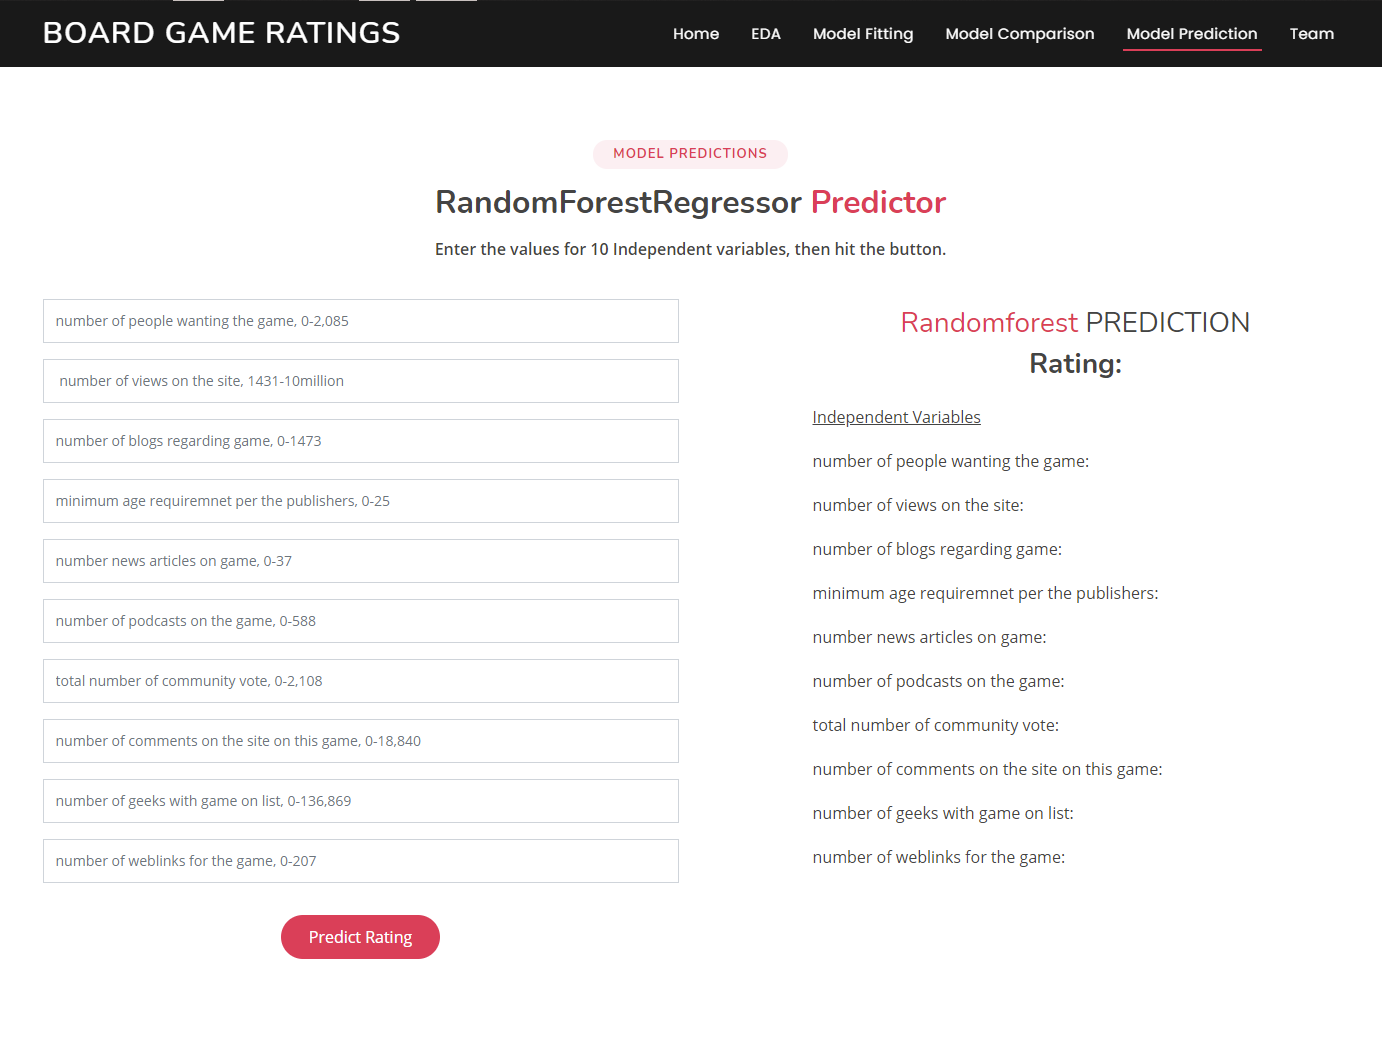
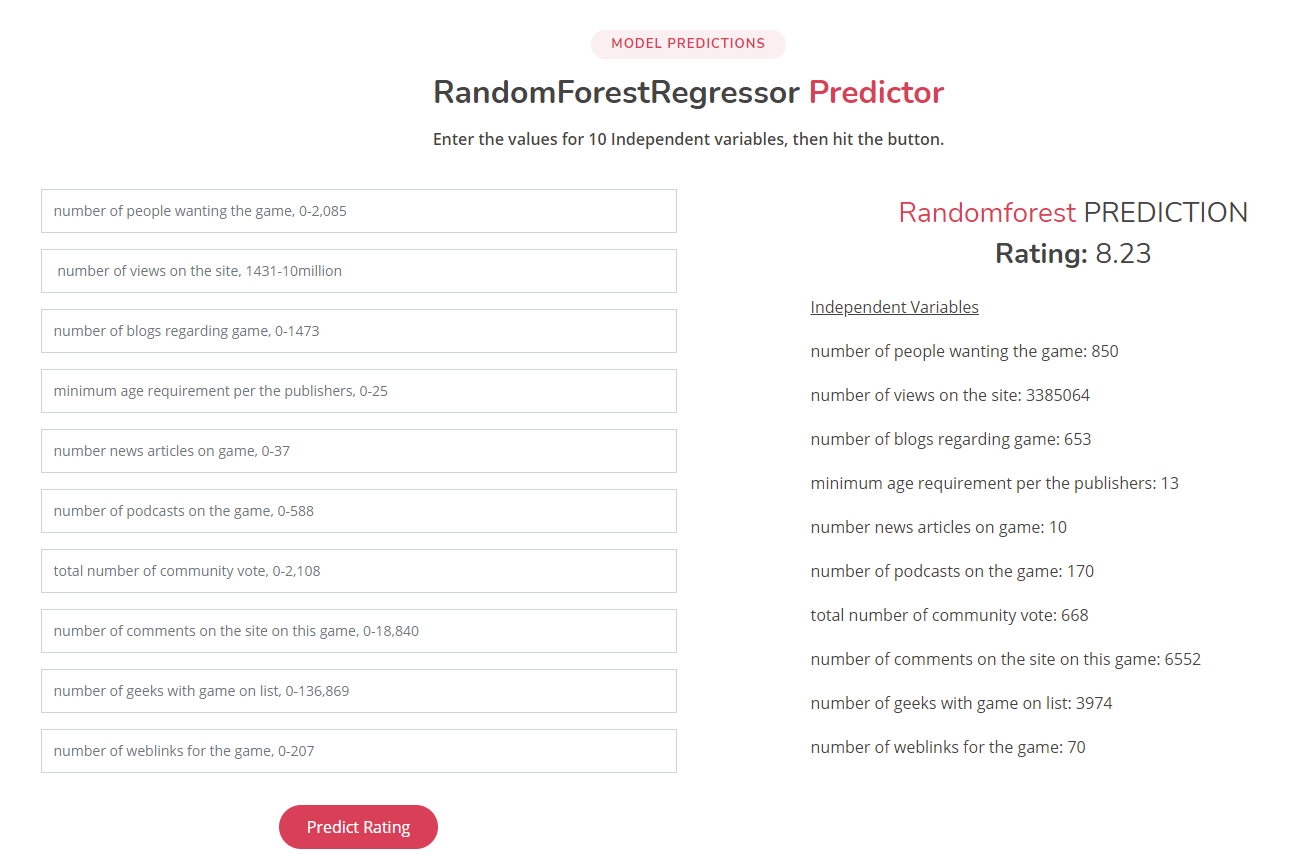
read me

diff --git a/boardgamerating/templates/index.html b/boardgamerating/templates/index.html
@@ -332,7 +332,7 @@
                               <input type="text" class="form-control" name="blogs" placeholder="number of blogs regarding game, 0-1473" required>
                             </div>
                             <div class="col-12 form-group mt-2">
-                              <input type="text" class="form-control" name="minage" placeholder="minimum age requiremnet per the publishers, 0-25" required>
+                              <input type="text" class="form-control" name="minage" placeholder="minimum age requirement per the publishers, 0-25" required>
                             </div>
                             <div class="col-12 form-group mt-2">
                               <input type="text" class="form-control" name="news" placeholder="number news articles on game, 0-37" required>
@@ -377,7 +377,7 @@
                             <p>number of blogs regarding game: {{ X_pred[2] }} </p>
                           </div>
                           <div class="col-12 mt-1">
-                            <p>minimum age requiremnet per the publishers: {{ X_pred[3] }} </p>
+                            <p>minimum age requirement per the publishers: {{ X_pred[3] }} </p>
                           </div>
                           <div class="col-12 mt-1">
                             <p>number news articles on game: {{ X_pred[4] }} </p>

diff --git a/boardgamerating/app.py b/boardgamerating/app.py
@@ -42,7 +42,7 @@ def home():
     print(f"home")
     return render_template("index.html", RF_pred=RF_pred[0],X_pred=X_pred)
 
-@app.route("/prediction", methods=['POST','GET'])
+@app.route("/prediction%23prediction", methods=['POST','GET'])
 def prediction():
     print(f"prediction")
     
@@ -66,7 +66,7 @@ def prediction():
     print(f'RF prediction= {RF_pred[0]}')
     print(X_pred[0])
 
-    return render_template("prediction.html", RF_pred=RF_pred[0], X_pred=X_pred[0])
+    return render_template("index.html", RF_pred=RF_pred[0], X_pred=X_pred[0])
 
 
 if __name__ == "__main__":

diff --git a/README.md b/README.md
@@ -10,27 +10,45 @@ We explored the BoardGameGeek dataset. Using machine learning, we predict board 
 
 ## Feature Selection
 
-![heat](ml_models/heat.png)
+Features were selected based on correlations of independent variables. 
 
-![feature](ml_models/feature.png)
+The top 10 features are number of people wanting the game, number of views on the site, number of blogs regarding game, minimum age requirement per the publishers, number news articles on game, number of podcasts on the game, total number of community vote, number of comments on the site on this game, number of geeks with game on list, number of weblinks for the game. 
 
+The feature importance were plotted in a pie plot using random forest regression.
 
+![feature](image/feature.png)
 
+## ML Models
 
+The csv file contains 29,000+ board games, each has 50+ attributions. We cleaned the data by remove duplicates, null values, and invalid data. The data was then scaled by maxminscalar or standardscalar. We used 100% of the data to train. For each machine learning model, we create the GridSearchCV estimator along with a parameter object containing the values to adjust. The result is shown below.
 
+- [sklearn.ensemble.RandomForestRegressor](https://scikit-learn.org/stable/modules/generated/sklearn.ensemble.RandomForestRegressor.html?highlight=regressor#sklearn.ensemble.RandomForestRegressor)  Explained Variance Score: 0.93451, R2 Score: 0.93450
 
+- [sklearn.neural_network.MLPRegressor](https://scikit-learn.org/stable/modules/generated/sklearn.neural_network.MLPRegressor.html?highlight=regressor#sklearn.neural_network.MLPRegressor)  Explained Variance Score: 0.52960, R2 Score: 0.52941
 
-- [sklearn.svm.SVC](https://scikit-learn.org/stable/modules/svm.html#regression)
-- [sklearn.ensemble.AdaBoostRegressor](https://scikit-learn.org/stable/modules/generated/sklearn.ensemble.AdaBoostRegressor.html?highlight=regressor#sklearn.ensemble.AdaBoostRegressor) 
-- [sklearn.ensemble.RandomForestRegressor](https://scikit-learn.org/stable/modules/generated/sklearn.ensemble.RandomForestRegressor.html?highlight=regressor#sklearn.ensemble.RandomForestRegressor) 
-- [sklearn.neighbors.KNeighborsRegressor](https://scikit-learn.org/stable/modules/generated/sklearn.neighbors.KNeighborsRegressor.html?highlight=regressor#sklearn.neighbors.KNeighborsRegressor) 
-- [sklearn.neighbors.RadiusNeighborsRegressor](https://scikit-learn.org/stable/modules/generated/sklearn.neighbors.RadiusNeighborsRegressor.html?highlight=regressor#sklearn.neighbors.RadiusNeighborsRegressor)
-- [sklearn.neural_network.MLPRegressor](https://scikit-learn.org/stable/modules/generated/sklearn.neural_network.MLPRegressor.html?highlight=regressor#sklearn.neural_network.MLPRegressor) 
-- [sklearn.tree.DecisionTreeRegressor](https://scikit-learn.org/stable/modules/generated/sklearn.tree.DecisionTreeRegressor.html?highlight=regressor#sklearn.tree.DecisionTreeRegressor) 
+- [sklearn.neighbors.KNeighborsRegressor](https://scikit-learn.org/stable/modules/generated/sklearn.neighbors.KNeighborsRegressor.html?highlight=regressor#sklearn.neighbors.KNeighborsRegressor) Explained Variance Score: 0.50760, R2 Score: 0.50689
+
+- [sklearn.svm.SVC](https://scikit-learn.org/stable/modules/svm.html#regression) Explained Variance Score: 0.45471, R2 Score: 0.45446
+
+- [sklearn.ensemble.AdaBoostRegressor](https://scikit-learn.org/stable/modules/generated/sklearn.ensemble.AdaBoostRegressor.html?highlight=regressor#sklearn.ensemble.AdaBoostRegressor) Explained Variance Score: 0.39258, R2 Score: 0.33835
+
+- [sklearn.neighbors.RadiusNeighborsRegressor](https://scikit-learn.org/stable/modules/generated/sklearn.neighbors.RadiusNeighborsRegressor.html?highlight=regressor#sklearn.neighbors.RadiusNeighborsRegressor) bad fitting, wrong model
 
   
 
-| **Regression**       | metrics link                                                 |
+| **Regression** Score | metrics link                                                 |
 | -------------------- | ------------------------------------------------------------ |
 | ‘explained_variance’ | [`metrics.explained_variance_score`](https://scikit-learn.org/stable/modules/generated/sklearn.metrics.explained_variance_score.html#sklearn.metrics.explained_variance_score) |
 | ‘r2’                 | [`metrics.r2_score`](https://scikit-learn.org/stable/modules/generated/sklearn.metrics.r2_score.html#sklearn.metrics.r2_score) |
+
+## ML Prediction
+
+The model predictions take 10 values from the form and gives results on the right.
+
+![prediction](image/prediction.png)
+
+
+
+## Future Work
+
+Improve model accuracy by test train split and selection of features.
